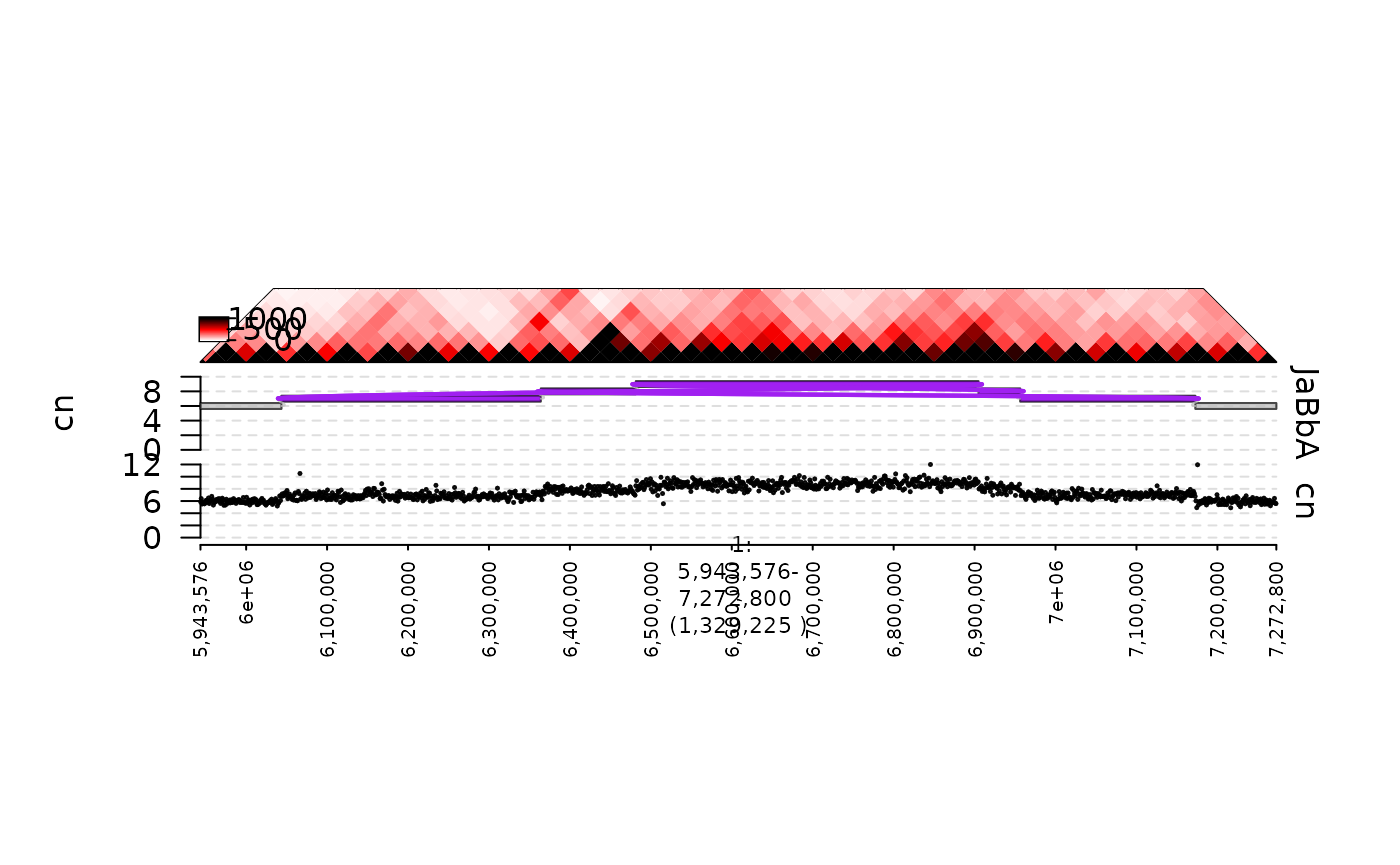
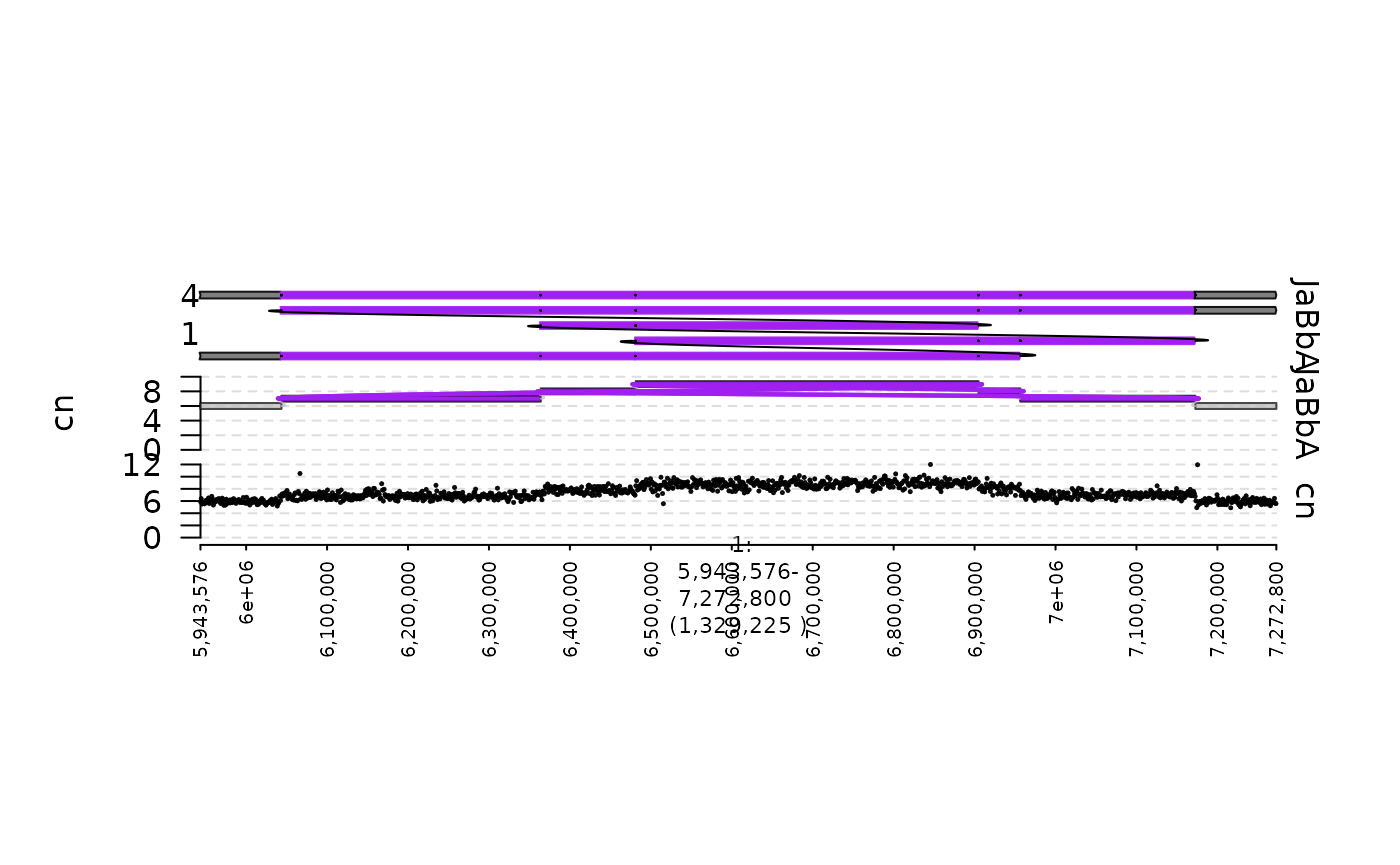
Deploying to gh-pages from @ zining01/gTrack@f1bb388c49ab60c7700207fead38eb7907aaf4eb 🚀

Changed region(s): [[0.1229, 0.3121, 0.9521, 0.437]]

diff --git a/articles/quickstart.html b/articles/quickstart.html
@@ -143,7 +143,16 @@
 <div class="section level2">
 <h2 id="grangeslist">GRangesList<a class="anchor" aria-label="anchor" href="#grangeslist"></a>
 </h2>
-<p>A <code>gTrack</code> can also be created from a <code>GRangesList</code>. This is desirable when plotting ranges that are grouped together in some way, such as alignments deriving from a single read pair in the case of short read whole genome sequencing.</p>
+<p>A <code>gTrack</code> can also be created from a <code>GRangesList</code>. This is desirable when plotting ranges that are grouped together in some way, such as alignments deriving from a single read pair.</p>
+<p>In this example, we will create a gTrack from junction-supporting read pairs. Briefly, these are read pairs that form split, gapped, or discordant alignments, hinting at the existence of a genomic rearrangement.</p>
+<p>The alignments associated with each read pair are represented by a single entry in this example’s <code>GRangesList</code>. In the corresponding gTrack, alignments from the same <code>GRangesList</code> entry are linked together by a light gray horizontal line, making it easy for them to be visually associated.</p>
+<p>You can see that there are many junction-supporting reads associated with read depth change points in the coverage <code>gTrack</code> which makes sense because aberrant adjacencies can produce copy number variants.</p>
+<div class="sourceCode" id="cb6"><pre class="downlit sourceCode r">
+<code class="sourceCode R"><span><span class="va">reads</span> <span class="op">=</span> <span class="fu"><a href="https://rdrr.io/r/base/readRDS.html" class="external-link">readRDS</a></span><span class="op">(</span><span class="fu"><a href="https://rdrr.io/r/base/system.file.html" class="external-link">system.file</a></span><span class="op">(</span><span class="st">"extdata"</span>, <span class="st">"ovcar.subgraph.reads.rds"</span>, package <span class="op">=</span> <span class="st">"gTrack"</span><span class="op">)</span><span class="op">)</span></span>
+<span><span class="va">reads.gt</span> <span class="op">=</span> <span class="fu"><a href="../reference/gTrack-class.html">gTrack</a></span><span class="op">(</span><span class="va">reads</span><span class="op">)</span></span>
+<span></span>
+<span><span class="fu"><a href="https://rdrr.io/r/graphics/plot.default.html" class="external-link">plot</a></span><span class="op">(</span><span class="fu"><a href="../reference/c-methods.html">c</a></span><span class="op">(</span><span class="va">coverage.gt</span>, <span class="va">reads.gt</span><span class="op">)</span>, <span class="va">fp</span> <span class="op">+</span> <span class="fl">1e5</span><span class="op">)</span></span></code></pre></div>
+<p><img src="quickstart_files/figure-html/unnamed-chunk-7-1.png" width="700" height="10"></p>
 </div>
 <div class="section level2">
 <h2 id="matrix">Matrix<a class="anchor" aria-label="anchor" href="#matrix"></a>
@@ -155,30 +164,30 @@
 </h2>
 <p><code>gGraph</code>s are genome graphs in which nodes represent (signed) genomic intervals, and edges represent adjacencies between those intervals (see our <code>gGnome</code> package <a href="https://github.com/mskilab/gGnome" class="external-link">here</a>!).</p>
 <p>A <code>gTrack</code> can be created from a <code>gGraph</code> using either the <code>$gt</code> active field or <code>$gtrack</code> method, as shown below. In this example, we will create a plot of a tumor <code>gGraph</code> and the associated coverage profile.</p>
-<div class="sourceCode" id="cb6"><pre class="downlit sourceCode r">
+<div class="sourceCode" id="cb7"><pre class="downlit sourceCode r">
 <code class="sourceCode R"><span><span class="va">gg</span> <span class="op">=</span> <span class="fu"><a href="https://rdrr.io/r/base/readRDS.html" class="external-link">readRDS</a></span><span class="op">(</span><span class="fu"><a href="https://rdrr.io/r/base/system.file.html" class="external-link">system.file</a></span><span class="op">(</span><span class="st">"extdata"</span>, <span class="st">"ovcar.subgraph.rds"</span>, package <span class="op">=</span> <span class="st">"gTrack"</span><span class="op">)</span><span class="op">)</span></span>
 <span><span class="fu"><a href="https://rdrr.io/r/graphics/plot.default.html" class="external-link">plot</a></span><span class="op">(</span><span class="fu"><a href="../reference/c-methods.html">c</a></span><span class="op">(</span><span class="va">coverage.gt</span>, <span class="va">gg</span><span class="op">$</span><span class="va">gt</span><span class="op">)</span>, <span class="va">fp</span> <span class="op">+</span> <span class="fl">1e5</span><span class="op">)</span></span></code></pre></div>
-<p><img src="quickstart_files/figure-html/unnamed-chunk-7-1.png" width="700" height="10"></p>
+<p><img src="quickstart_files/figure-html/unnamed-chunk-8-1.png" width="700" height="10"></p>
 </div>
 <div class="section level2">
 <h2 id="gwalk">gWalk<a class="anchor" aria-label="anchor" href="#gwalk"></a>
 </h2>
 <p><code>gWalk</code>s represent paths through a <code>gGraph</code>. Generally, they represent somatic haplotypes that could exist in a genome corresponding with a give <code>gGraph</code> (more details in the <code>gGnome</code> package!). Like <code>gGraph</code>s, <code>gWalk</code>s have active field <code>$gt</code> and method <code>$gtrack</code>, both of which will produce a <code>gTrack</code>.</p>
 <p>The following example plots a set of <code>gWalk</code>s associated with the <code>gGraph</code> plotted above.</p>
-<div class="sourceCode" id="cb7"><pre class="downlit sourceCode r">
+<div class="sourceCode" id="cb8"><pre class="downlit sourceCode r">
 <code class="sourceCode R"><span><span class="va">wks</span> <span class="op">=</span> <span class="fu"><a href="https://rdrr.io/r/base/readRDS.html" class="external-link">readRDS</a></span><span class="op">(</span><span class="fu"><a href="https://rdrr.io/r/base/system.file.html" class="external-link">system.file</a></span><span class="op">(</span><span class="st">"extdata"</span>, <span class="st">"ovcar.subgraph.walks.rds"</span>, package <span class="op">=</span> <span class="st">"gTrack"</span><span class="op">)</span><span class="op">)</span></span>
 <span><span class="fu"><a href="https://rdrr.io/r/graphics/plot.default.html" class="external-link">plot</a></span><span class="op">(</span><span class="fu"><a href="../reference/c-methods.html">c</a></span><span class="op">(</span><span class="va">coverage.gt</span>, <span class="va">gg</span><span class="op">$</span><span class="va">gt</span>, <span class="va">wks</span><span class="op">$</span><span class="va">gt</span><span class="op">)</span>, <span class="va">fp</span> <span class="op">+</span> <span class="fl">1e5</span><span class="op">)</span></span></code></pre></div>
-<p><img src="quickstart_files/figure-html/unnamed-chunk-8-1.png" width="700" height="10"></p>
+<p><img src="quickstart_files/figure-html/unnamed-chunk-9-1.png" width="700" height="10"></p>
 </div>
 <div class="section level2">
 <h2 id="gmatrix">gMatrix<a class="anchor" aria-label="anchor" href="#gmatrix"></a>
 </h2>
 <p><code>gMatrix</code> is an object implemented in the package <code>GxG</code> that facilitates analysis and visualization of paired genomic intervals. There are many use cases for <code>gMatrix</code>, but the one used in this example is Hi-C data, which consists of read counts shared by pairs of genomic bins. We will plot the Hi-C profile associated with this locus.</p>
 <p>Again, similar to <code>gWalk</code> and <code>gGraph</code>, a <code>gTrack</code> can be created for a <code>gMatrix</code> with the active field <code>$gt</code> or method <code>$gtrack</code>. Here we will use the <code>$gtrack</code> method to set a parameter for coloring the heatmap (<code>cmap.max</code>).</p>
-<div class="sourceCode" id="cb8"><pre class="downlit sourceCode r">
+<div class="sourceCode" id="cb9"><pre class="downlit sourceCode r">
 <code class="sourceCode R"><span><span class="va">gm</span> <span class="op">=</span> <span class="fu"><a href="https://rdrr.io/r/base/readRDS.html" class="external-link">readRDS</a></span><span class="op">(</span><span class="fu"><a href="https://rdrr.io/r/base/system.file.html" class="external-link">system.file</a></span><span class="op">(</span><span class="st">"extdata"</span>, <span class="st">"ovcar.subgraph.hic.rds"</span>, package <span class="op">=</span> <span class="st">"gTrack"</span><span class="op">)</span><span class="op">)</span></span>
 <span><span class="fu"><a href="https://rdrr.io/r/graphics/plot.default.html" class="external-link">plot</a></span><span class="op">(</span><span class="fu"><a href="../reference/c-methods.html">c</a></span><span class="op">(</span><span class="va">coverage.gt</span>, <span class="va">gg</span><span class="op">$</span><span class="va">gt</span>, <span class="va">gm</span><span class="op">$</span><span class="fu">gtrack</span><span class="op">(</span>cmap.max <span class="op">=</span> <span class="fl">1000</span><span class="op">)</span><span class="op">)</span>, <span class="va">fp</span> <span class="op">+</span> <span class="fl">1e5</span><span class="op">)</span></span></code></pre></div>
-<p><img src="quickstart_files/figure-html/unnamed-chunk-9-1.png" width="700" height="10"></p>
+<p><img src="quickstart_files/figure-html/unnamed-chunk-10-1.png" width="700" height="10"></p>
 </div>
   </div>
 
